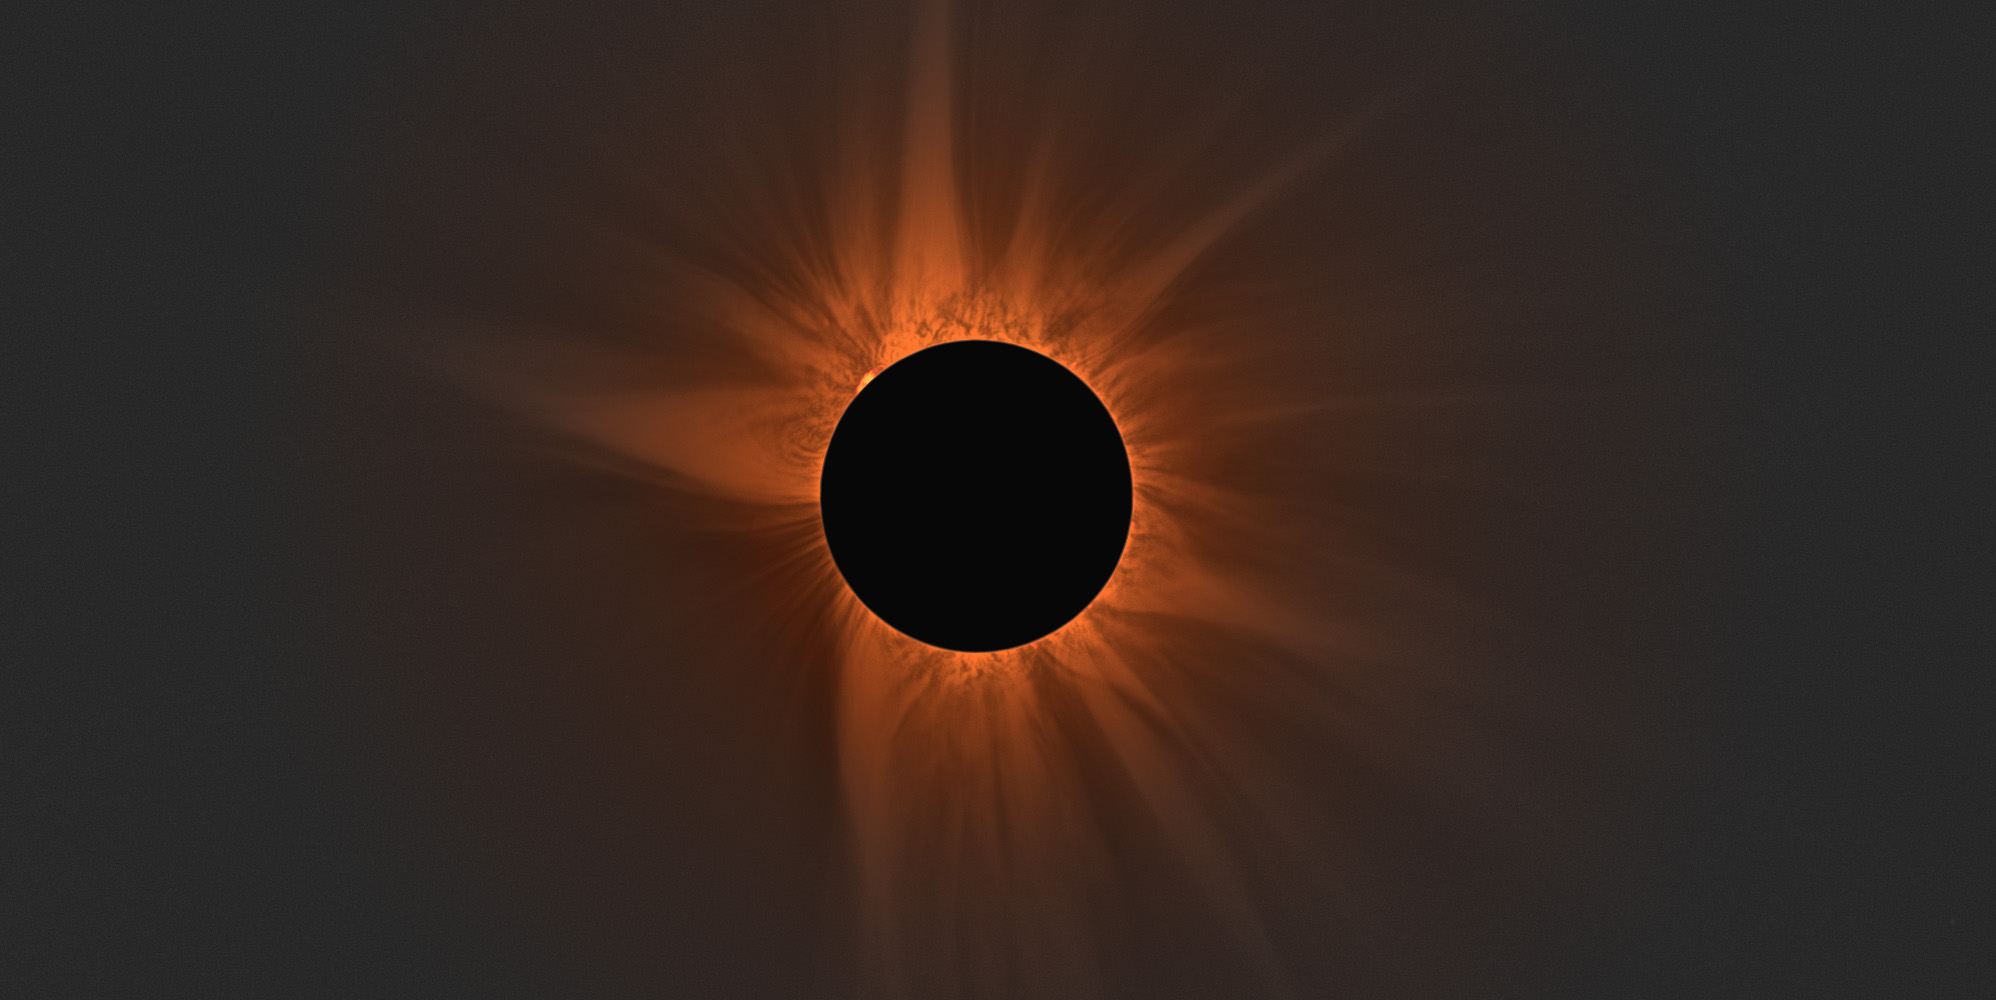
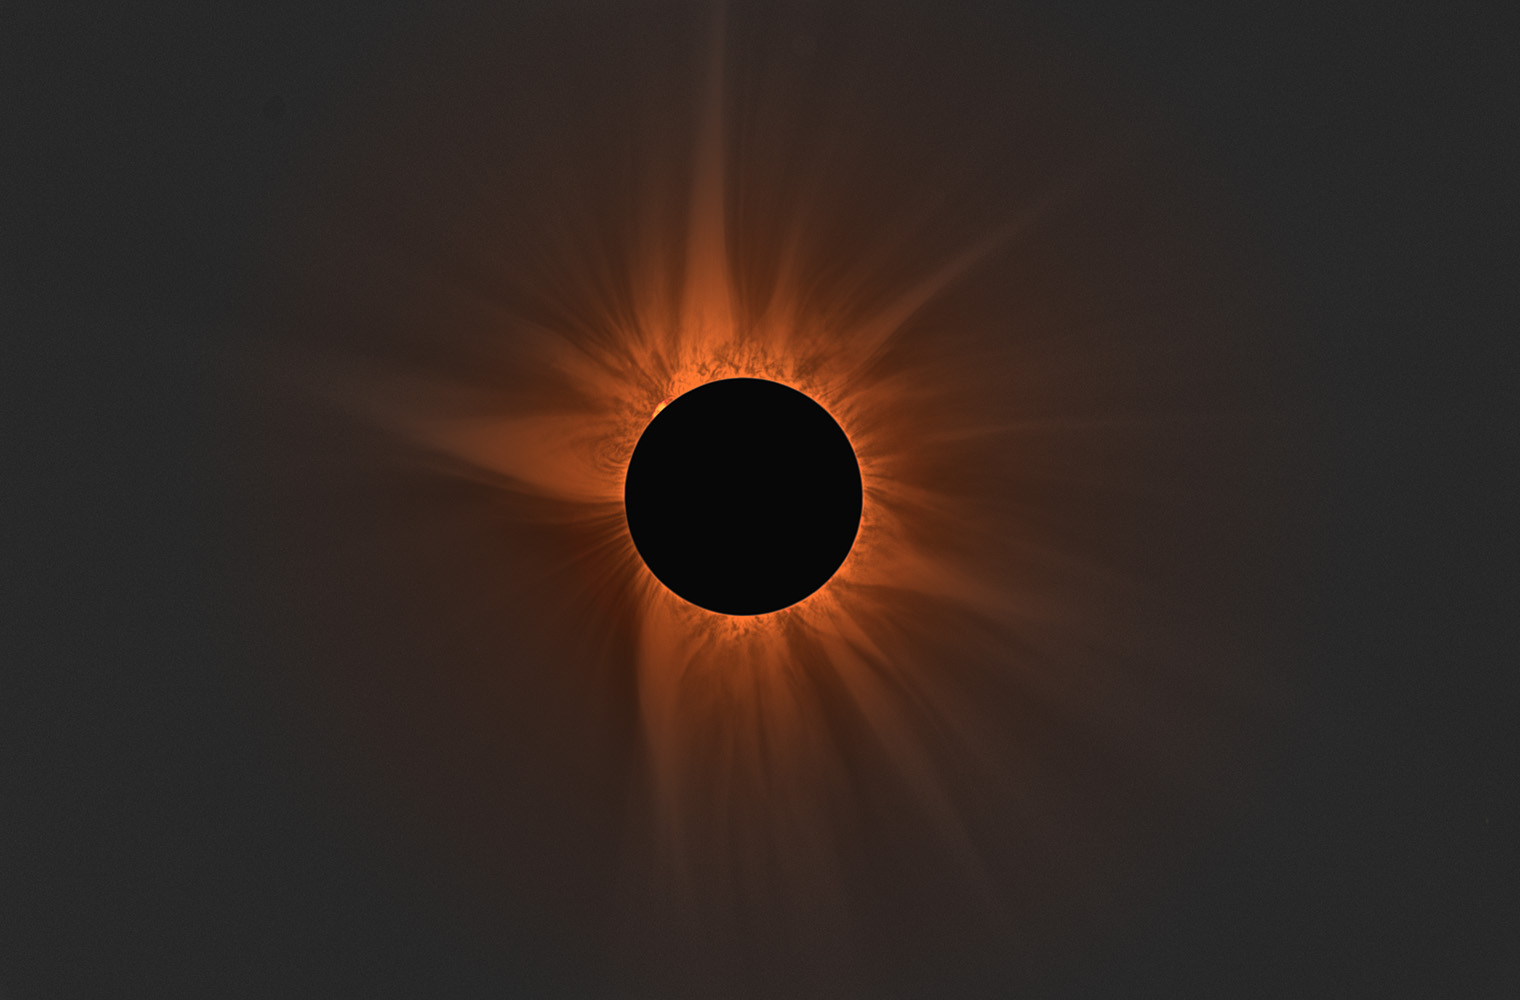
README: new images and figure captions for 0.28.0
Claude-Session: https://claude.ai/code/session_01DeeG2sKySPBu6nmiLkUs2i

Changed region(s): [[0.3092, 0.093, 0.6184, 0.496], [0.402, 0.527, 0.6493, 0.806]]

diff --git a/README.md b/README.md
@@ -4,7 +4,7 @@
 
 ![Total solar eclipse corona processed with EclipseForgeHDR](docs/images/EFHDRshowpiece.jpg)
 
-*Example result, stacked and rendered in EFHDR 0.25.0, including
+*Example result, stacked and rendered in EFHDR v0.28.0, including
 the Moon and prominence layers; noise reduction (NoiseXTerminator) afterwards
 in Photoshop.*
 
@@ -18,15 +18,15 @@ interface is a small web server on `127.0.0.1` that only your browser talks to.
 | | |
 |:---:|:---:|
 | ![](docs/images/eclipseforge_composite_render_A.jpg) | ![](docs/images/eclipseforge_composite_render_B.jpg) |
-| **After stacking** | **After the colour and tone controls** |
+| **After stacking** (here a low eclipse in 2026, hence the warm tones) | **After colour and tone adjustments** ("Night navy" preset) |
 
 *The same stack, before and after rendering. Left: the merge as it comes out of
 the stack, with the camera's white balance (look "EFHDR as loaded"). With the
 Sun low in the sky the atmosphere takes the blue out of the corona's
 light, which is the warm cast. Right: the same layers after the colour and tone
-controls and the Moon layer.*
+adjustments of the "Night navy" preset and the Moon layer.*
 
-![The EclipseForgeHDR interface](docs/images/eclipseforge_gui.jpeg)
+![The EclipseForgeHDR interface](docs/images/eclipseforge_gui.jpg)
 
 *The folder and the flats go in the top bar; the row of buttons switches the
 preview between the composite and each individual layer; every slider on the
